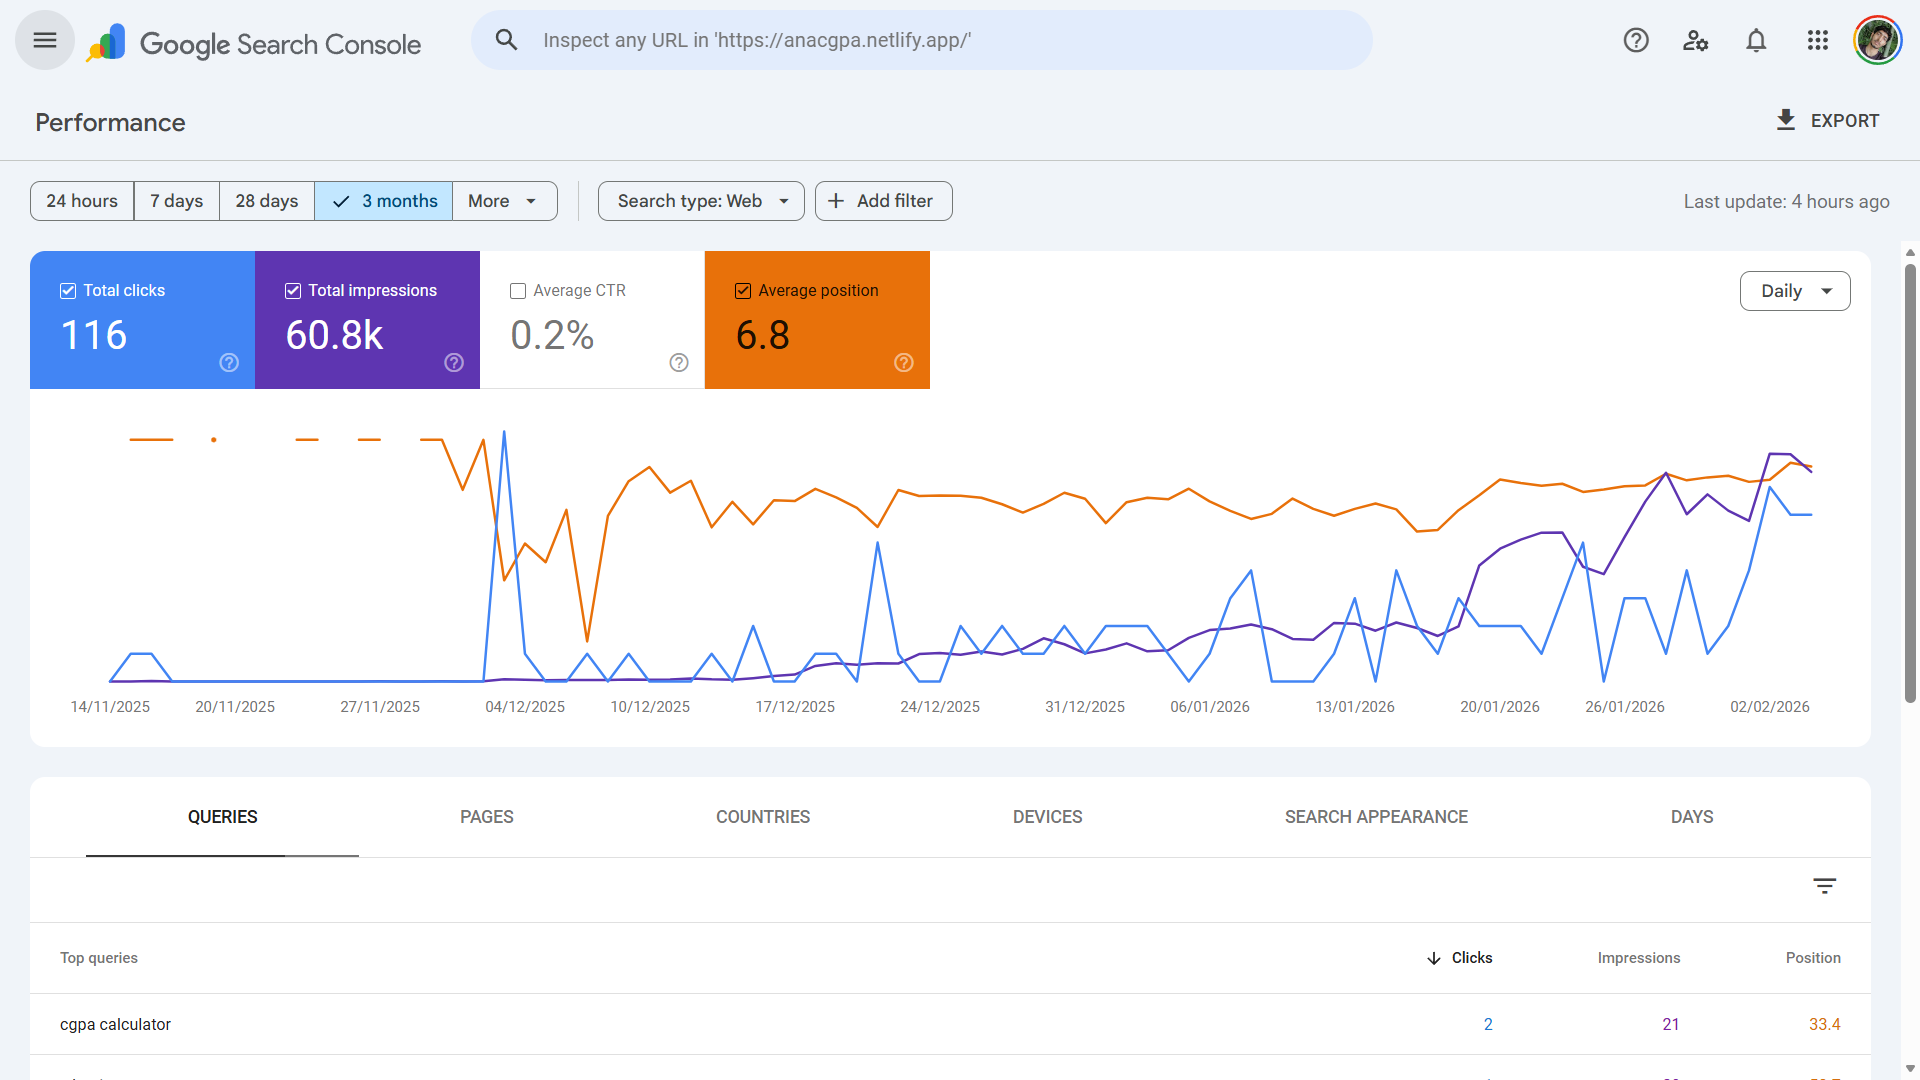
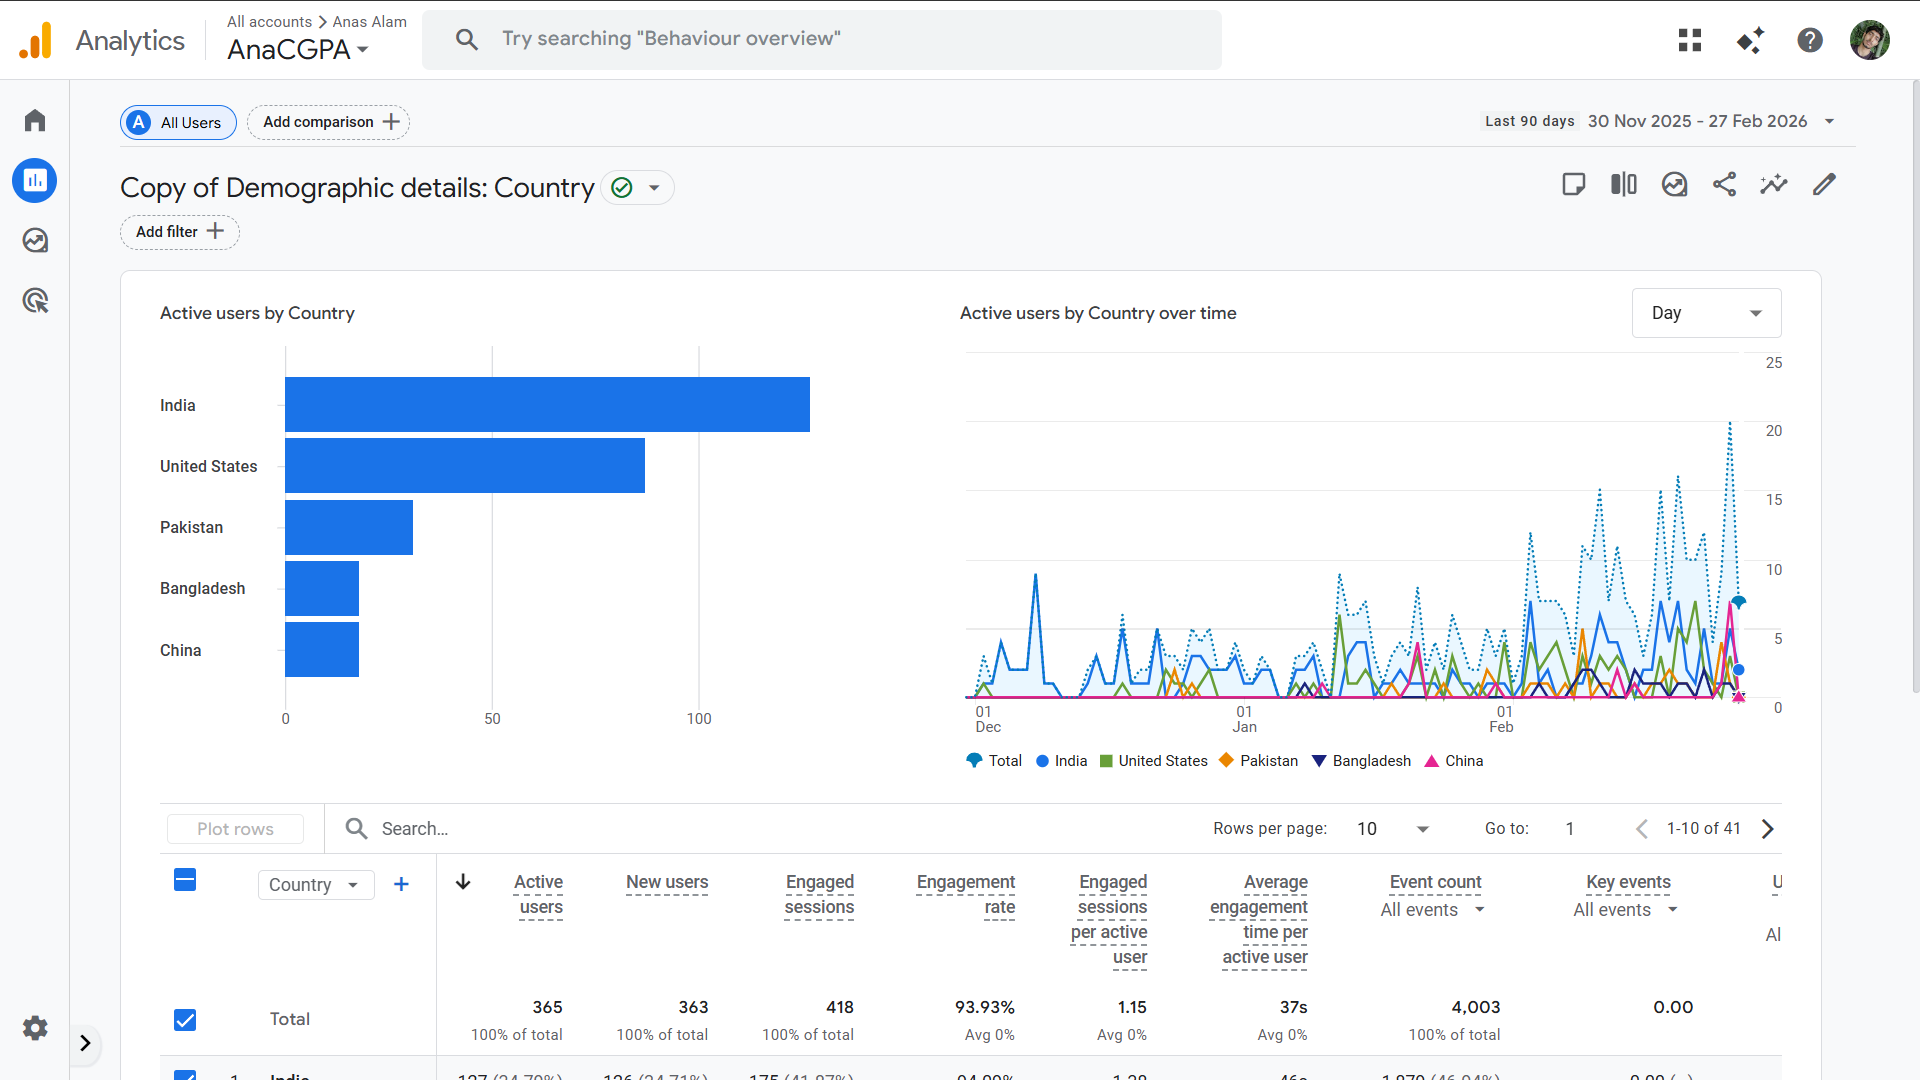
feat: add AgriLenses project details and images; update AnaCGPA project title and repository link

diff --git a/data/projects/agrilenses.ts b/data/projects/agrilenses.ts
@@ -1,0 +1,180 @@
+export const agrilenses = {
+	id: "5",
+	title: "AgriLenses - Smart Crop Advisory System (SIH 2025)",
+	githubRepo: "#",
+	previewLink:
+		"https://www.canva.com/design/DAGy0NCssmw/Si7NwvVs-ENCFGAGJU0lsQ/watch",
+	siteUrl: "agrilenses.netlify.app",
+	thumbnail: "/projectImages/agrilenses/1.png",
+	imageGallery: [
+        "/projectImages/agrilenses/1.png", 
+        "/projectImages/agrilenses/2.png", 
+        "/projectImages/agrilenses/3.png", 
+        "/projectImages/agrilenses/4.png", 
+        "/projectImages/agrilenses/5.png"
+    ],
+	techs: [
+		"Python",
+		"TypeScript",
+		"Next.js",
+		"Google Cloud",
+		"Netlify",
+		"Scikit-learn",
+		"Jupyter",
+		"NumPy",
+		"Pandas",
+		"Matplotlib",
+		"Node.js",
+		"React.js",
+		"MongoDB",
+		"SQL",
+		"Computer Vision",
+		"NLP",
+		"Machine Learning",
+		"IVR/SMS",
+	],
+	centerIcon: "Python",
+	textStack: [
+		"AI Crop Advisory",
+		"Voice-First UX",
+		"Multilingual NLP",
+		"Pest Detection (CNN)",
+		"Market Price Prediction",
+	],
+	metaDescription:
+		"AgriLenses is a Smart India Hackathon 2025 solution for small and marginal farmers that provides multilingual, voice-enabled, AI-powered crop advisory using soil health, weather, and market data with offline IVR/SMS support.",
+	content: `
+> *Built for Smart India Hackathon 2025 to solve real farming problems with practical AI and offline-first delivery.*
+
+---
+
+## Project Snapshot
+
+**Hackathon**: Smart India Hackathon 2025  
+**Problem Statement ID**: 25010  
+**Title**: Smart Crop Advisory System for Small and Marginal Farmers  
+**Theme**: Agriculture, FoodTech and Rural Development  
+**Category**: Software  
+**Team**: Quantum Crew
+
+**Demo Video**: https://www.canva.com/design/DAGy0NCssmw/Si7NwvVs-ENCFGAGJU0lsQ/watch
+
+---
+
+## What We Built
+
+AgriLenses is a smart advisory platform that helps farmers decide **what to grow, when to irrigate, how to respond to pests, and where to sell for better prices**.
+
+The system combines:
+
+* Soil Health Card (SHC) data
+* Weather signals
+* Mandi prices and eNAM trends
+* Voice and multilingual chatbot interaction
+* Offline IVR/SMS fallback for low-connectivity regions
+
+---
+
+## Why This Matters
+
+Most small and marginal farmers face three practical issues:
+
+* Recommendations are not hyperlocal
+* Digital products assume literacy and internet availability
+* Advice is fragmented across multiple portals
+
+AgriLenses addresses this by providing **one integrated, local-language advisory flow** that is usable even without stable internet.
+
+---
+
+## Technical Architecture
+
+### Input Layer
+
+Farmers can provide inputs through:
+
+* Village/location details
+* Soil and crop information
+* Pest images
+* Voice queries in local language
+
+### Intelligence Layer
+
+The AI engine combines multiple signals to generate actionable advice:
+
+* **CNN models** for pest and disease image detection
+* **NLP pipeline** for multilingual intent understanding and advisory generation
+* **ML forecasting models** for mandi price prediction
+* Rule-based recommendation logic for irrigation and fertilizer scheduling
+
+### Delivery Layer
+
+Advice is delivered in formats that are practical for field use:
+
+* Mobile app/chatbot response
+* Local-language text and audio output
+* Offline IVR and SMS fallback for no-data zones
+
+---
+
+## Integrations and Ecosystem Alignment
+
+* **SHC** for soil health context
+* **PMFBY** references for risk and insurance awareness
+* **eNAM/mandi price feeds** for better selling decisions
+* Designed for future **AgriStack alignment** to support scale across states
+
+---
+
+## My SDE Contribution
+
+I focused on building a practical software architecture that can move from hackathon prototype to deployable product:
+
+* Designed end-to-end advisory flow (input -> AI processing -> multilingual output)
+* Defined service boundaries for model inference, data aggregation, and advisory APIs
+* Built backend-ready structure for integrating weather, soil, and market data sources
+* Planned offline-first delivery strategy using IVR/SMS for low-connectivity areas
+* Documented model selection strategy for CV (CNN), NLP, and price forecasting
+
+---
+
+## Feasibility and Scale
+
+The solution is feasible because it uses a modular architecture:
+
+* Cloud-based core services for model inference and data orchestration
+* Lightweight client channels (chatbot/mobile)
+* Offline channels (IVR/SMS) for rural accessibility
+* Multilingual dataset strategy for cross-state deployment
+
+This allows phased rollout from district pilots to broader state-level deployment.
+
+---
+
+## Expected Impact
+
+Based on cited pilot studies and reports:
+
+* Yield improvement: **10-25%**
+* Fertilizer/pesticide input reduction: **15-20%**
+* Crop loss reduction via early alerts: **~20%**
+* Income uplift via market timing and discovery: **8-15%**
+
+Beyond metrics, the biggest impact is accessibility: farmers receive advice in their own language and through channels they already use.
+
+---
+
+## References Used
+
+* NABARD Report 2022 (small and marginal farmer distribution)
+* FAO studies on ICT-enabled advisory outcomes
+* Springer paper on AI-based pest and disease detection
+* World Bank case studies on ICT for agriculture productivity
+
+---
+
+## Summary
+
+AgriLenses demonstrates my ability to design **real-world, impact-focused AI products** with clear system boundaries, offline-first constraints, and multilingual user experience. It reflects practical SDE strengths in **architecture, data integration, model-driven workflows, and product feasibility for national scale**.
+`,
+};

diff --git a/data/projects/anacgpa.ts b/data/projects/anacgpa.ts
@@ -1,7 +1,7 @@
 export const anacgpa = {
   id: "3",
-  title: "AnaCGPA — CGPA Calculator & Educational Blog Platform",
-  githubRepo: "https://github.com/your-username/anacgpa",
+  title: "AnaCGPA | Educational Blog & Tools",
+  githubRepo: "#",
   previewLink: "https://anacgpa.netlify.app",
   siteUrl: "anacgpa.netlify.app",
   thumbnail: "/projectImages/ancgpa/anacgpa1.png",
@@ -12,6 +12,8 @@ export const anacgpa = {
     "/projectImages/ancgpa/anacgpa4.png",
     "/projectImages/ancgpa/anacgpa5.png",
     "/projectImages/ancgpa/anacgpa6.png",
+    "/projectImages/ancgpa/anacgpa7.png",
+    "/projectImages/ancgpa/anacgpa8.png",
   ],
   techs: [
     "Next.js",

diff --git a/data/projectsData.ts b/data/projectsData.ts
@@ -1,5 +1,6 @@
 import { anacgpa } from "./projects/anacgpa";
+import { agrilenses } from "./projects/agrilenses";
 import { anaspice } from "./projects/anaspice";
 import { anasufyide } from "./projects/anasufyide";
 
-export const projectsData = [anacgpa, anasufyide, anaspice];
+export const projectsData = [agrilenses, anacgpa, anasufyide, anaspice];
